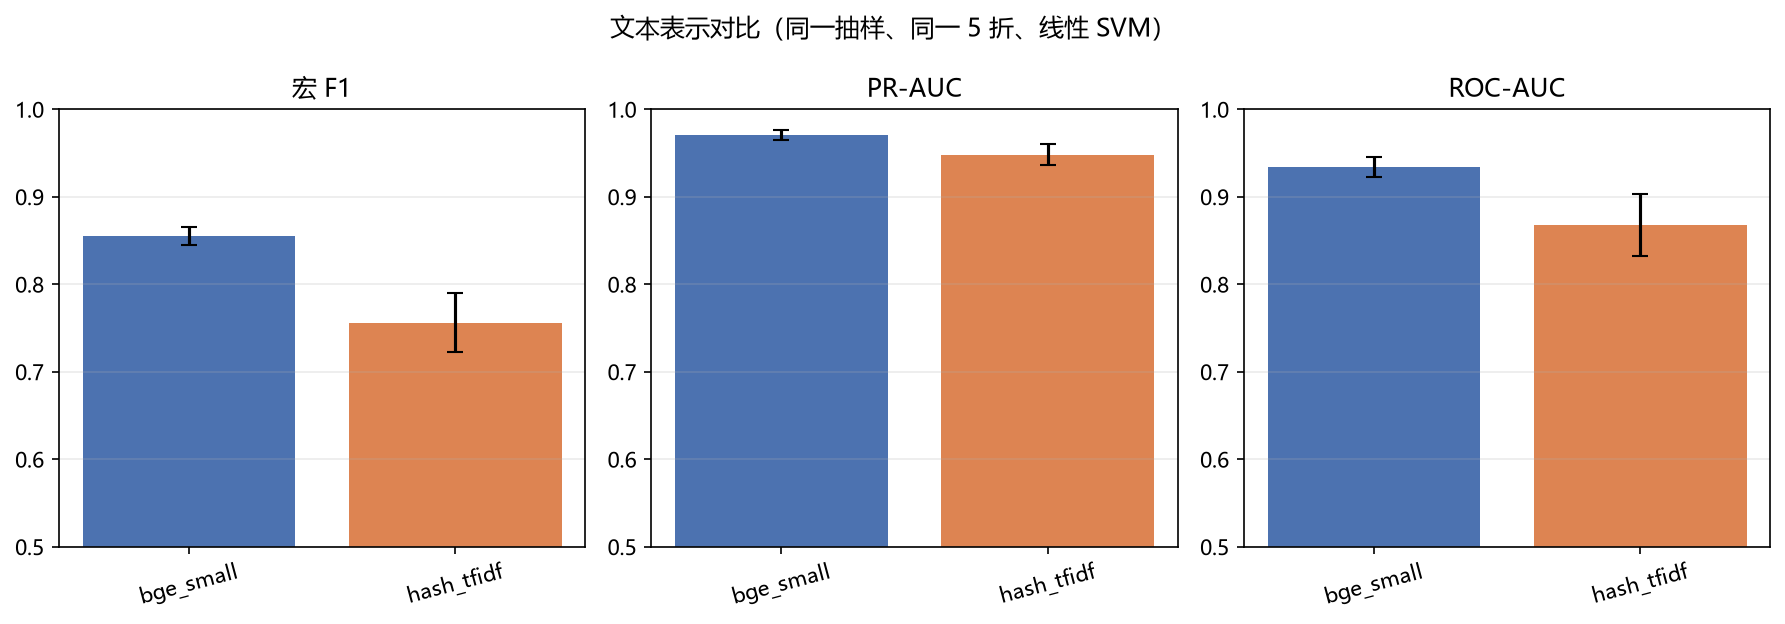
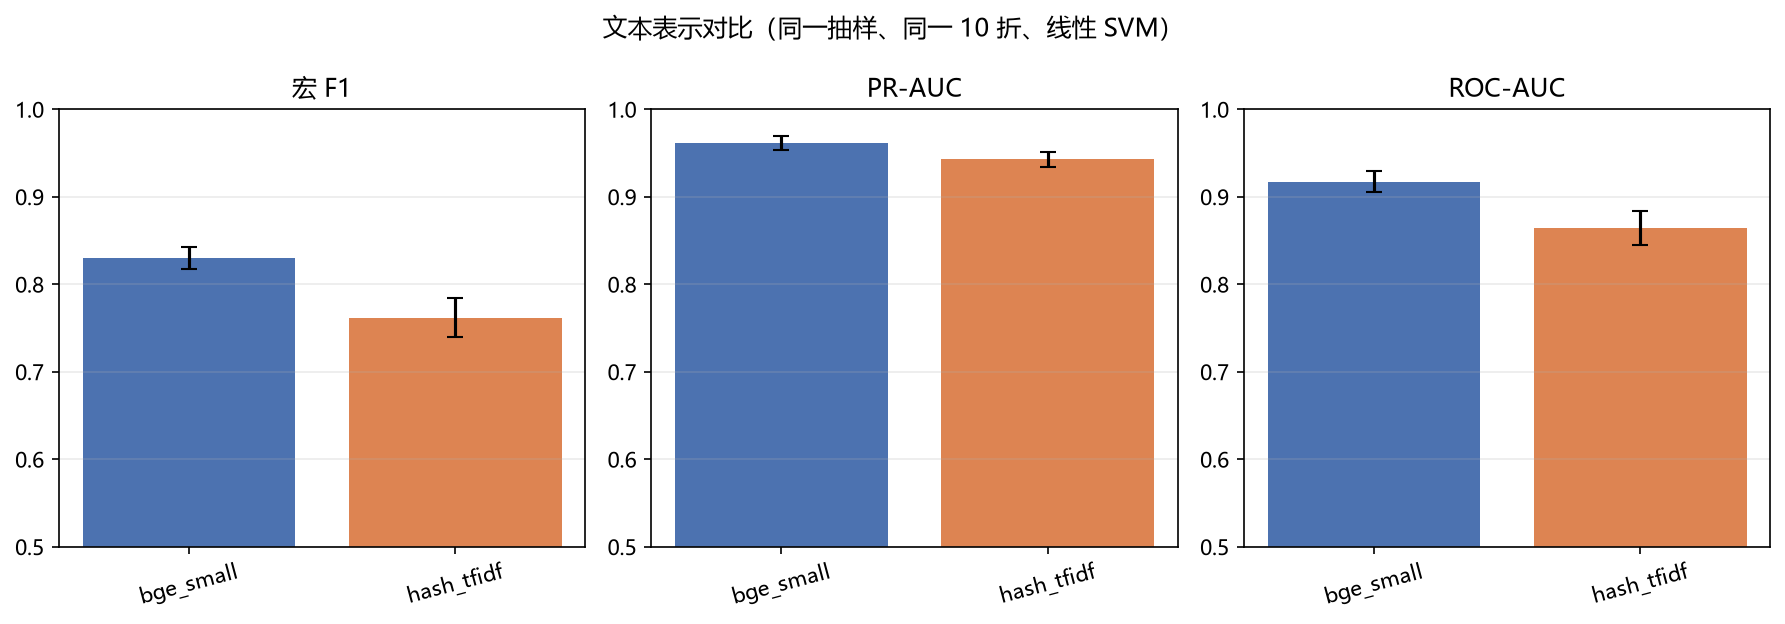
feat(insights): 扩大 BGE 对照到 30k 样本与 10 折

diff --git a/src/classify_embedding.py b/src/classify_embedding.py
@@ -197,7 +197,7 @@ def plot_compare(table: pd.DataFrame, path: Path) -> None:
         axis.set_ylim(0.5, 1.0)
         axis.grid(axis="y", alpha=0.25)
         axis.tick_params(axis="x", rotation=15)
-    fig.suptitle("文本表示对比（同一抽样、同一 5 折、线性 SVM）")
+    fig.suptitle(f"文本表示对比（同一抽样、同一 {N_FOLDS} 折、线性 SVM）")
     fig.tight_layout()
     fig.savefig(path, dpi=150, bbox_inches="tight")
     plt.close(fig)
@@ -210,7 +210,10 @@ def main() -> None:
         "--text-chars", type=int, default=600,
         help="截断字符数；CPU 句向量推理的 token 数近似随之线性变化",
     )
+    parser.add_argument("--folds", type=int, default=5, choices=[5, 10])
     args = parser.parse_args()
+    global N_FOLDS
+    N_FOLDS = args.folds
     setup_fonts()
     started = time.perf_counter()
     frame = load_frame(args.limit)
